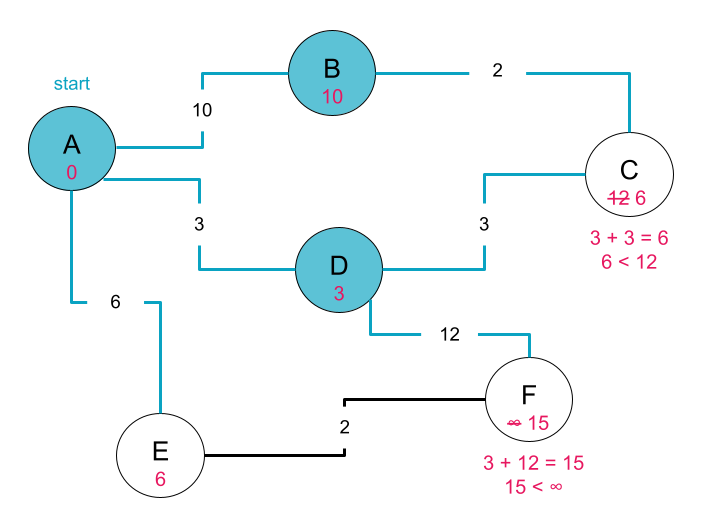
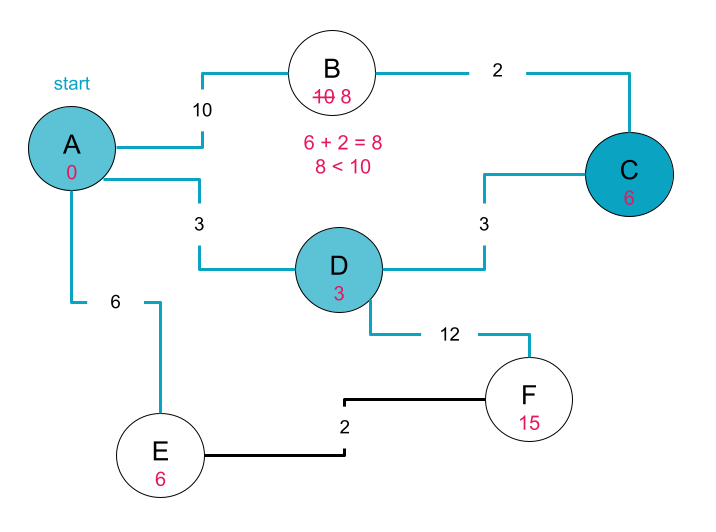
Update step 4 explanation

diff --git a/09-graphs-p2/02-dijkstra.md b/09-graphs-p2/02-dijkstra.md
@@ -90,23 +90,20 @@ costs/distances:
     - F: 15
 ```
 ![Dijkstra's Walkthrough Part 4](./images/dijkstras-4.png)
-Step 4. Now we look at the next node in the queue, Node D. 
+Step 4. Of the unvisited nodes in the graph, there is a tie for the node with minimum listed distance from our start node, Node A. Both Node C and Node E have a cost/distance of 6. We can choose either. Let's visit C next. 
 
-Node D has two unvisited neighbors, Nodes C and F. Following the same logic as in Step 3, we sum the cost of to travel from the start node to Node D, 3, with the sum of the edge from Node D to each of its neighbors. In this case, each of those sums is less than the current estimates so we revise our list of estimated costs accordingly.
-
-As before, we update the queue and list of visited nodes as needed.
+Node C's only unvisited neighbor is Node B. Following the same logic as in Step 3, we sum the cost of travelling from our start node Node A to Node C with the sum of the edge from Node C to Node B. 
+6 + 2 = 8 which is less than the currently listed cost of travel from Node A to Node B, 10 so we update our cost/distances list with our newly found minimum cost.
 
 ```
-current: D
+current: C
 
-visited nodes: A, B, D 
-
-queue: E, C, C, F
+visited nodes: A, D, C
 
 costs/distances:
     - A: 0
-    - B: 10
-    - C: 12
+    - B: 8
+    - C: 6
     - D: 3
     - E: 6
     - F: 15
